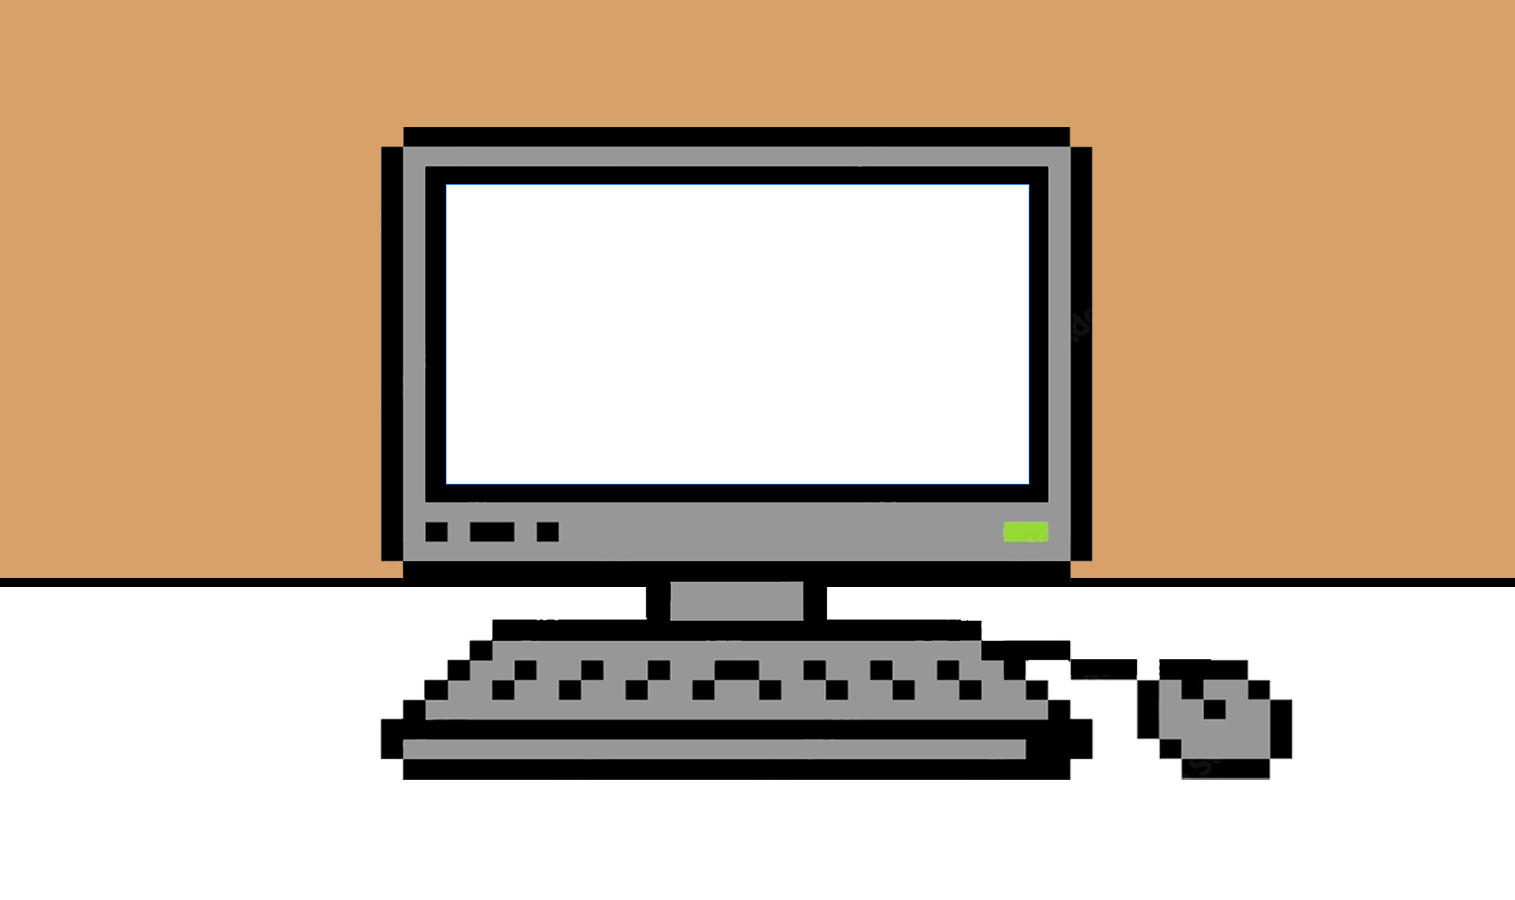
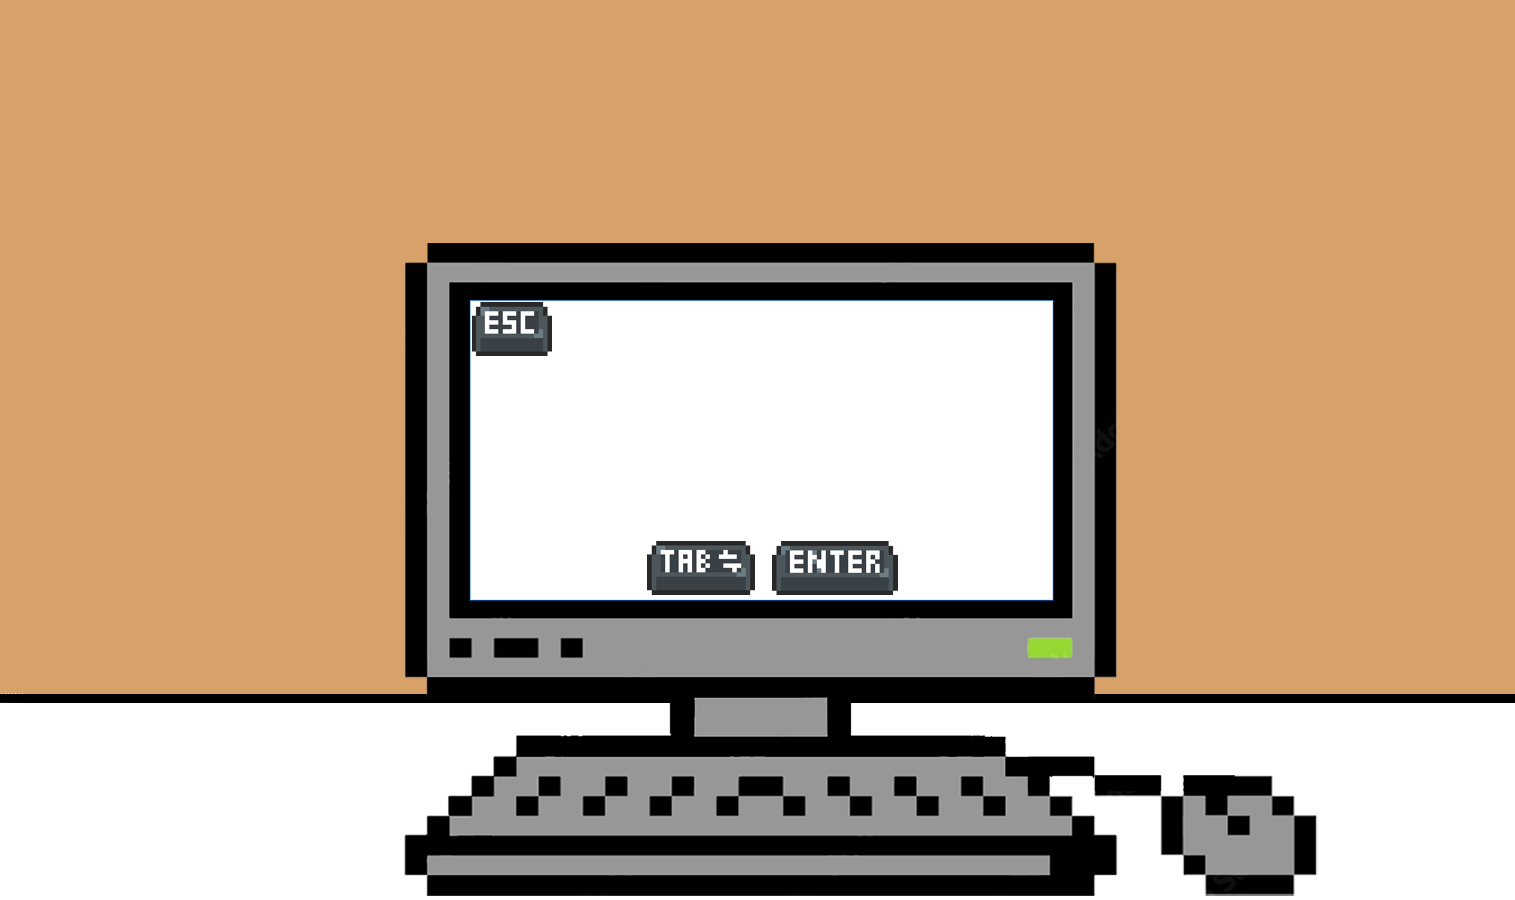
[] - Scene placement change

diff --git a/index.js b/index.js
@@ -1,8 +1,10 @@
 const canvas = document.querySelector('canvas')
 const c = canvas.getContext('2d')   
 canvas.style = "background-color: black"
-canvas.width = getWidth()-30
+canvas.width = getWidth()-10
 canvas.height = getHeight()-16
+const sceneImage = new Image('./assets/img/maps/habitacion.png')
+const scene = new Scene(sceneImage)
 const offset = {
     x: -canvas.width/2,
     y: -canvas.height/2
@@ -87,7 +89,7 @@ collisionsMap.forEach((row, i) => {
                         y: i * Boundary.height + offset.y,
                     },
                     zoom: zoom,
-                    color: 'rgba(255, 0, 0, 0)'
+                    color: 'rgba(255, 0, 0, 0.5)'
                 })
             )
         }
@@ -150,8 +152,7 @@ const foreground = new Sprite({
     },
     image: foregroundImage
 })
-const sceneImage = new Image()
-const scene = new Scene(sceneImage)
+
 const movables = [background, foreground, ...fireplace, ...desk, ...boundaries]
 let isInteractableSceneActive = false
 let isInDesk = false

diff --git a/keybinds.js b/keybinds.js
@@ -21,7 +21,6 @@ const keys = {
 }
 
 window.addEventListener('keydown', (e) => {
-    console.log(e.key);
     switch (e.key) {
         case 'w':
             lastKey = 'w'
@@ -66,6 +65,17 @@ window.addEventListener('keydown', (e) => {
                 }
             } 
             break
+        case 'Tab':
+            if (isInDesk && isInteractableSceneActive) {
+                let focus = document.activeElement.id
+                switch (focus) {
+                    case 'github':
+                        e.preventDefault()
+                        console.log('changing to linkedin');
+                        document.getElementById('linkedin').focus();
+                        break
+                }
+            }
     }
 })
 window.addEventListener('keyup', (e) => {

diff --git a/scenes/computerScene.js b/scenes/computerScene.js
@@ -1,13 +1,14 @@
 const computerImage = new Image()
 computerImage.src = './assets/img/misc/COMPUTERscreenwhitebag.png'
+
 const computerScene = new Scene(computerImage)
 
 function animateInteractableScene(scene) {
     socials.style.display = 'flex'
-    var left = getWidth()/2 -  socials.offsetWidth / 2 - 20
-    var topOffset = getHeight()/2 -  socials.offsetHeight/2 - 30
+    var leftOffset = getWidth()/2 -  socials.offsetWidth / 2
+    var topOffset = getHeight()/2 -  socials.offsetHeight/2
     socials.style.top = topOffset
-    socials.style.left = left
+    socials.style.left = leftOffset
     scene.animationId = window.requestAnimationFrame(() => animateInteractableScene(scene));
 
     if (!scene.active) {

diff --git a/index.html b/index.html
@@ -54,7 +54,7 @@
  <script src="classes.js"></script>
  <script src="keybinds.js"></script>
  <script src="utils.js"></script>
- <script src="scenes/interactableScene.js"></script>
+ <script src="scenes/computerScene.js"></script>
  <script src="index.js"></script>
   
 

diff --git a/classes.js b/classes.js
@@ -92,6 +92,6 @@ class Scene {
     }
     draw() {
         if (!this.active) return;
-        c.drawImage(this.background.image, (getWidth() - this.background.image.width)/2, 0);
+        c.drawImage(this.background.image, 0, 0, canvas.width, canvas.height);
     }
 }
